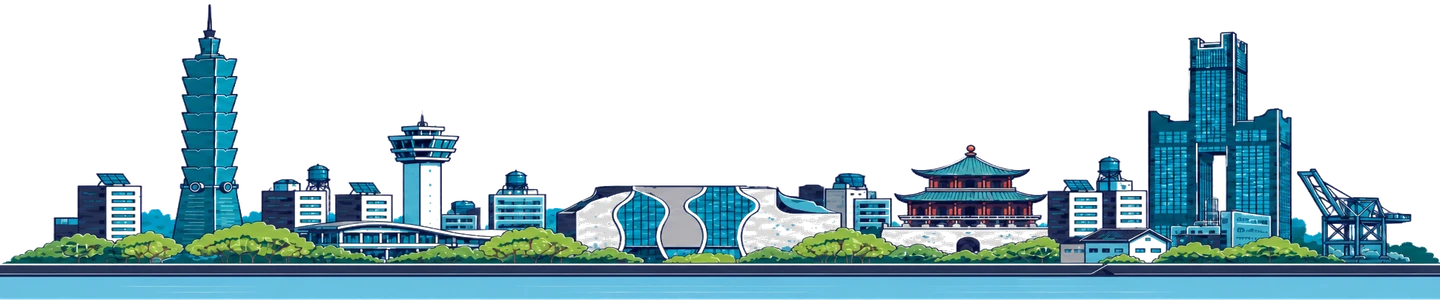
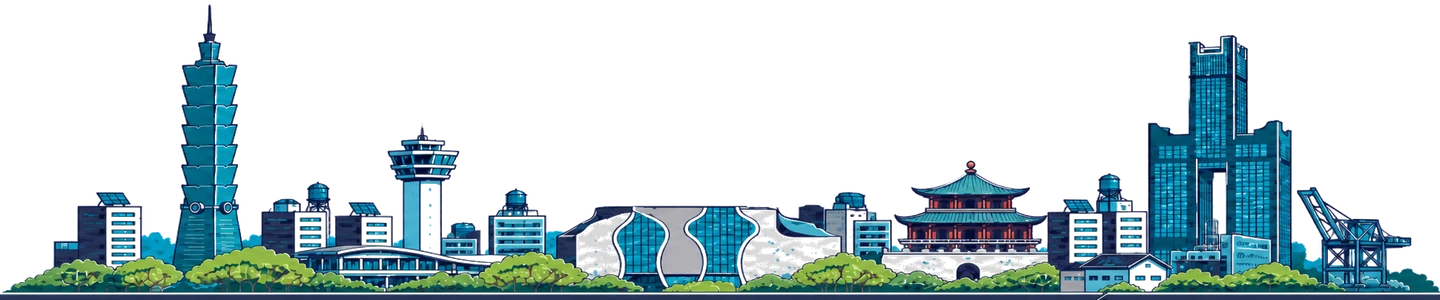
fix(site): increase skyline building height

diff --git a/progress.md b/progress.md
@@ -112,6 +112,12 @@ Slogan:「面對城市的下一個十年，六都市長準備好了嗎？」
 - 公開驗證：公開網址 `https://litostswirrl.github.io/six-counties/?rev=86ff71f` 的 1200px 與 390px 畫面均確認兩張圖完整載入，顯示高度分別為 250px 與 81.25px，沒有水平溢出；首頁米色與頁尾深紫色均正確透出透明背景。
 - Next：等待 Joseph 指定下一個明確範圍；正式團體資料到位後，人工確認數量與完整名稱。
 
+## Phase 9 天際線建築高度第三次修正（本機驗證完成，待公開部署，2026-08-31）
+- What：沿用目前生成母版與地標配置，進一步收緊上下裁切範圍，讓建築主體填滿 `1440×300` 橫幅；同步縮減水面比例，保留細水岸線與透明背景。
+- Why：Phase 8 處理後仍保留較多上下空間，建物高度的改善不夠明顯；本次直接減少底部水面與上方留白，讓建物比例在固定區塊高度內確實變高。
+- 驗證：`npm run test` 38 項通過；`npm run build` 通過，僅有既有字型路徑警告；`git diff --check` 通過；本機 1200px 與 390px 檢查確認兩張圖完整載入、顯示高度分別為 250px 與 81.25px，沒有 SVG 或水平溢出。
+- Next：提交並推送 `main`，確認 GitHub Actions 與公開網址，再補記部署結果。
+
 ## 待決問題（提問清單草稿）
 - 部署位置與網域、與淨零觀測站的關係
 - 簽署／連署資料更新機制（10月記者會前後要更新，靜態 rebuild 或接 Google Sheet）

diff --git a/six-counties-checkpoints.md b/six-counties-checkpoints.md
@@ -12,6 +12,7 @@
 - **Phase 6 -- 恢復 SVG 天際線比例與夜色銜接**：完成（2026-08-31）
 - **Phase 7 -- 回到圖檔天際線並修正背景與比例**：完成（2026-08-31）
 - **Phase 8 -- 天際線建物比例第二次修正**：完成（2026-08-31）
+- **Phase 9 -- 天際線建築高度第三次修正**：本機驗證完成，待公開部署（2026-08-31）
 
 ## 共通規則
 
@@ -101,6 +102,13 @@
 - 公開頁面在 1200px 與 390px 均確認日間與夜間圖檔完整載入，原始尺寸為 `1440×300`，實際顯示高度分別為 250px 與 81.25px；首頁與頁尾各一張，沒有水平溢出。
 - 公開頁面讀回的首頁背景為米色，頁尾背景為深紫色；兩張透明圖檔均能融入對應區塊。
 - 下一階段尚未決定，維持等待 Joseph 指定範圍。
+
+## Phase 9 本機完成紀錄
+
+- 沿用目前生成母版，進一步收緊上下裁切範圍，保留完整的臺北 101、桃園機場塔台、臺中國家歌劇院、臺南歷史建築、高雄 85 大樓與港區起重機。
+- 日間與夜間圖檔均重新輸出為透明背景的 `1440×300` WebP；建物主體填滿更多區塊高度，底部水面縮減為細水岸線。
+- 本機 `npm run test` 38 項通過、`npm run build` 通過；`git diff --check` 通過；1200px 與 390px 畫面確認兩張圖完整載入，實際高度為 250px 與 81.25px，沒有水平溢出或 SVG 天際線。
+- 部署與公開網址驗證待完成。
 
 ## Phase 5 Resume Prompt
 
